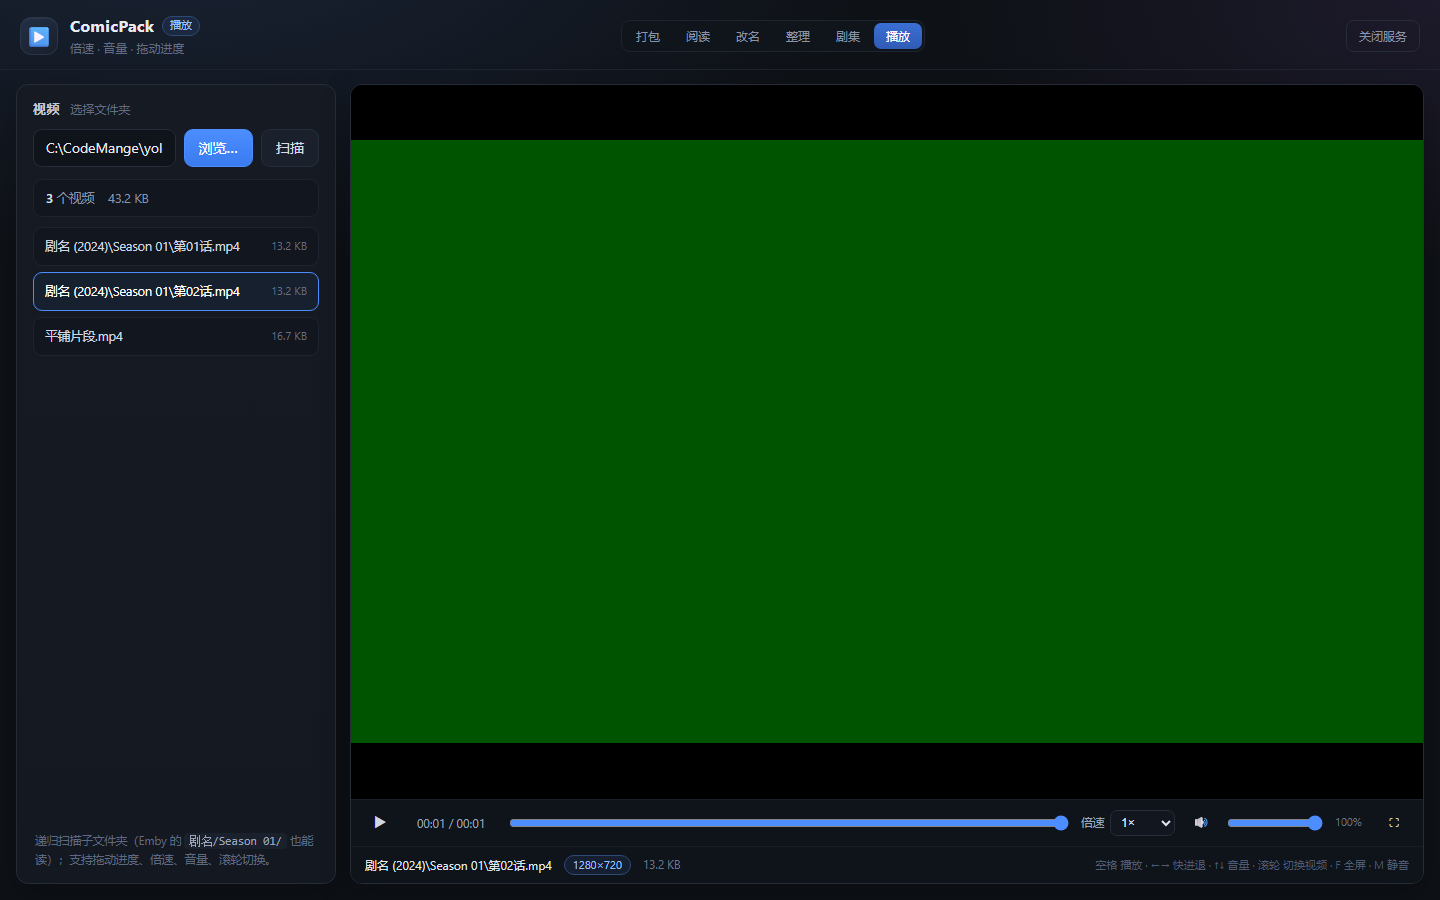
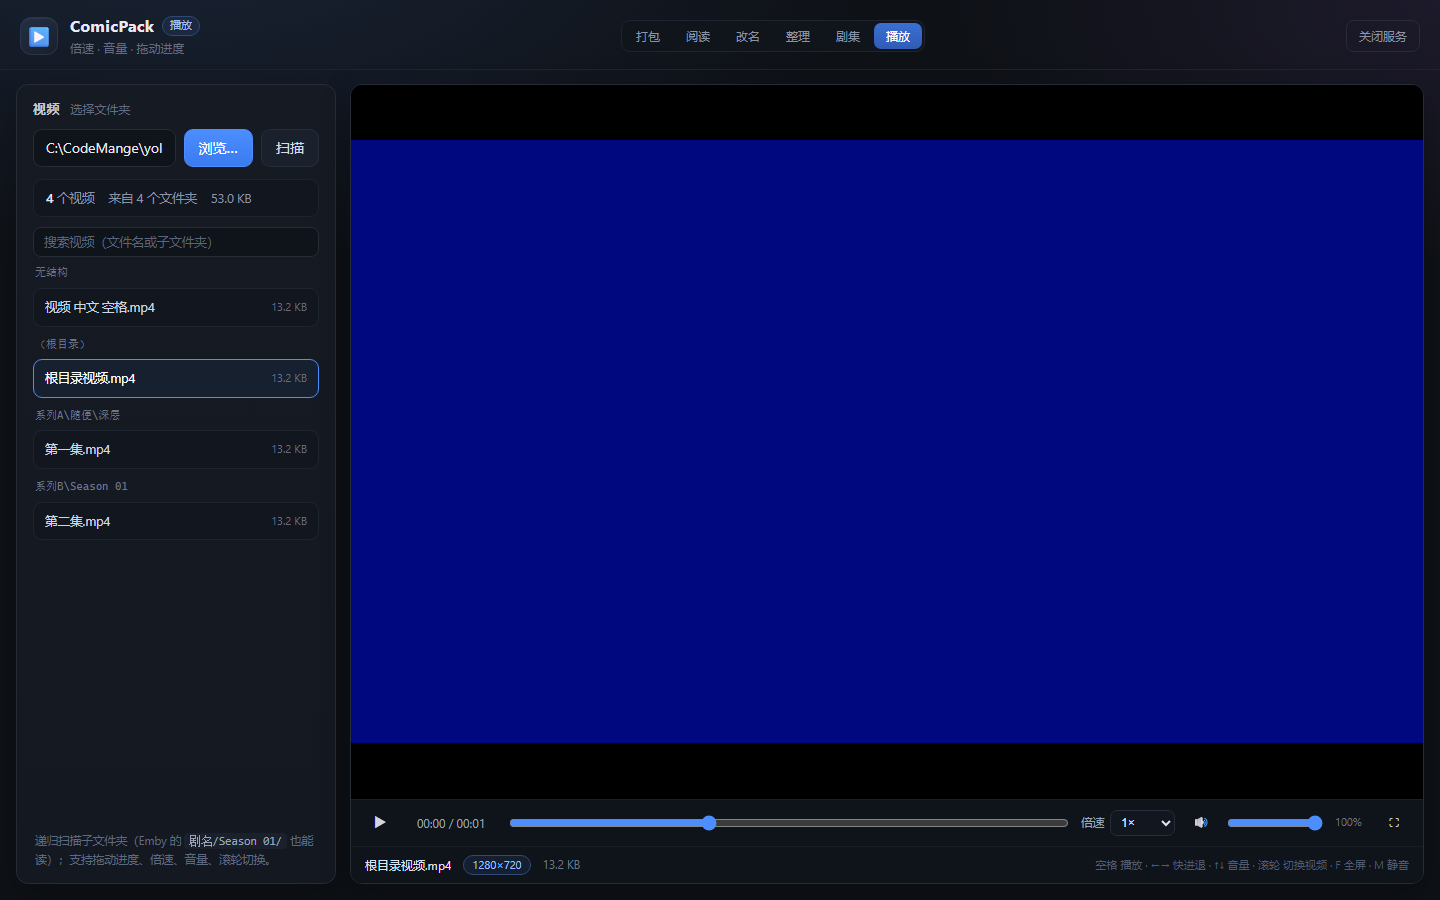
Play page: group by folder and search; non-Emby trees are first-class
- playlist groups videos under their folder (relative path), shows "来自 N 个
  文件夹" in the summary, and adds a search box that filters by file name or
  subfolder; wheel switching walks only the visible items
- verified arbitrary structures (root file, A/随便/深层/xx.mp4,
  B/Season 01/xx.mp4, flat folder) list and play; no Emby layout required
- fix: scope the filter input height so the global input[type=text] rule does
  not stretch it in the flex column

diff --git a/static/play.js b/static/play.js
@@ -10,6 +10,7 @@ const state = {
   items: [],
   current: null,
   seeking: false,
+  query: "",
 };
 
 const LS_VOLUME = "comicpack.play.volume";
@@ -76,10 +77,15 @@ async function scan() {
     if (!r.ok) throw new Error(r.error || "扫描失败");
     state.root = r.root;
     state.items = r.items;
+    state.query = "";
+    $("#filter").value = "";
     $("#path").value = r.root;
     localStorage.setItem(LS_PATH, r.root);
+    const dirs = new Set(r.items.map((i) => i.dir || ""));
     $("#summary").innerHTML =
-      `<span><b>${r.totals.videos}</b> 个视频</span><span>${r.totals.size_text}</span>`;
+      `<span><b>${r.totals.videos}</b> 个视频</span>` +
+      `<span>来自 ${dirs.size} 个文件夹</span>` +
+      `<span>${r.totals.size_text}</span>`;
     renderList();
     if (r.items.length) {
       const wanted = new URLSearchParams(location.search).get("file");
@@ -91,10 +97,36 @@ async function scan() {
   }
 }
 
+function visibleItems() {
+  const q = state.query.trim().toLowerCase();
+  if (!q) return state.items;
+  return state.items.filter((i) => (i.rel || i.name).toLowerCase().includes(q));
+}
+
 function renderList() {
   const ul = $("#playlist");
   ul.innerHTML = "";
-  state.items.forEach((item) => {
+  const items = visibleItems();
+  if (!items.length) {
+    const li = document.createElement("li");
+    li.className = "play-empty-item";
+    li.textContent = state.query ? "没有匹配的视频" : "这个文件夹里没有视频";
+    ul.appendChild(li);
+    return;
+  }
+
+  let lastDir = null;
+  items.forEach((item) => {
+    const dir = item.dir || "";
+    if (dir !== lastDir) {
+      const head = document.createElement("li");
+      head.className = "play-folder";
+      head.textContent = dir || "（根目录）";
+      head.title = dir;
+      ul.appendChild(head);
+      lastDir = dir;
+    }
+
     const li = document.createElement("li");
     li.className = "play-item";
     li.dataset.path = item.path;
@@ -102,7 +134,7 @@ function renderList() {
 
     const name = document.createElement("span");
     name.className = "play-item-name";
-    name.textContent = item.rel || item.name;
+    name.textContent = item.name;
 
     const meta = document.createElement("span");
     meta.className = "play-item-meta";
@@ -242,10 +274,11 @@ let wheelAcc = 0;
 let wheelLock = 0;
 
 function stepItem(dir) {
-  if (!state.items.length) return;
-  const idx = state.current ? state.items.findIndex((i) => i.path === state.current.path) : -1;
-  const next = idx < 0 ? 0 : (idx + dir + state.items.length) % state.items.length;
-  playItem(state.items[next], true);
+  const items = visibleItems();
+  if (!items.length) return;
+  const idx = state.current ? items.findIndex((i) => i.path === state.current.path) : -1;
+  const next = idx < 0 ? 0 : (idx + dir + items.length) % items.length;
+  playItem(items[next], true);
 }
 
 document.querySelector(".play-stage").addEventListener("wheel", (e) => {
@@ -276,6 +309,10 @@ document.querySelector(".play-stage").addEventListener("wheel", (e) => {
 $("#btn-browse").addEventListener("click", browse);
 $("#btn-scan").addEventListener("click", scan);
 $("#path").addEventListener("keydown", (e) => { if (e.key === "Enter") scan(); });
+$("#filter").addEventListener("input", () => {
+  state.query = $("#filter").value;
+  renderList();
+});
 
 $("#btn-quit").addEventListener("click", async () => {
   if (!confirm("关闭本地服务？关闭后页面将无法继续使用。")) return;

diff --git a/static/play.css b/static/play.css
@@ -30,6 +30,44 @@ body { overflow: hidden; }
   border: 2px solid #141821;
 }
 
+input[type="text"].play-filter {
+  flex: 0 0 auto;
+  width: 100%;
+  height: 30px;
+  margin: 0 0 8px;
+  padding: 0 10px;
+  border-radius: 8px;
+  border: 1px solid var(--line);
+  background: #0f131a;
+  color: #dfe5f0;
+  font: inherit;
+  font-size: 12.5px;
+  outline: none;
+}
+
+input[type="text"].play-filter:focus { border-color: #35507d; }
+
+.play-folder {
+  list-style: none;
+  margin: 10px 2px 6px;
+  font-size: 11px;
+  color: #6c7689;
+  font-family: "Cascadia Mono", Consolas, monospace;
+  overflow: hidden;
+  text-overflow: ellipsis;
+  white-space: nowrap;
+}
+
+.play-folder:first-child { margin-top: 0; }
+
+.play-empty-item {
+  list-style: none;
+  padding: 18px 6px;
+  color: #5f6a80;
+  font-size: 12px;
+  text-align: center;
+}
+
 .play-item {
   display: flex;
   align-items: center;

diff --git a/static/play.html b/static/play.html
@@ -46,6 +46,7 @@
     </div>
 
     <div id="summary" class="summary">尚未选择文件夹</div>
+    <input id="filter" class="play-filter" type="text" spellcheck="false" placeholder="搜索视频（文件名或子文件夹）">
     <ul id="playlist" class="playlist"></ul>
     <p class="tip">递归扫描子文件夹（Emby 的 <code>剧名/Season 01/</code> 也能读）；支持拖动进度、倍速、音量、滚轮切换。</p>
   </aside>

diff --git a/README.md b/README.md
@@ -201,14 +201,16 @@
 
 ![播放](docs/ui-play.png)
 
-1. 选文件夹（或直接粘贴某个视频文件的路径）→ 扫描（**递归找子文件夹**，平铺和 Emby 结构都能读）
-2. 左边点视频开始播放；在播放器区域**滚轮**可以切换上一个 / 下一个
-3. 控制条：播放/暂停、进度、倍速（0.5×–3×）、静音、音量、全屏
-4. 会自动记住上次的倍速和音量
+1. 选文件夹（或直接粘贴某个视频文件的路径）→ 扫描（**递归找子文件夹**，平铺和任意嵌套都能读）
+2. 左边**按文件夹分组**列出；顶部可以按文件名 / 子文件夹搜索
+3. 点视频开始播放；在播放器区域**滚轮**可以切换上一个 / 下一个
+4. 控制条：播放/暂停、进度、倍速（0.5×–3×）、静音、音量、全屏
+5. 会自动记住上次的倍速和音量
 
 | 特性 | 说明 |
 | --- | --- |
-| 目录结构 | 递归扫描：`剧名/Season 01/第01话.mp4` 这类非标准/多层结构也能列出来 |
+| 目录结构 | 递归扫描：`剧名/Season 01/第01话.mp4`、`随便/深层/第1集.mp4` 等任意结构都能列出来，**不要求 Emby 结构** |
+| 分组 / 搜索 | 列表按所在文件夹分组，顶部搜索框按文件名或子文件夹过滤 |
 | Range 流 | 后端支持 HTTP Range：拖动进度只读需要的片段，4K 大文件不用整段加载 |
 | 4K | 显示实际分辨率并标「4K」；能不能解码取决于浏览器和显卡（H.264 MP4 最稳） |
 | 滚轮切换 | 在播放器区域滚轮切换上一个/下一个视频（左侧列表保留自己的滚动） |
